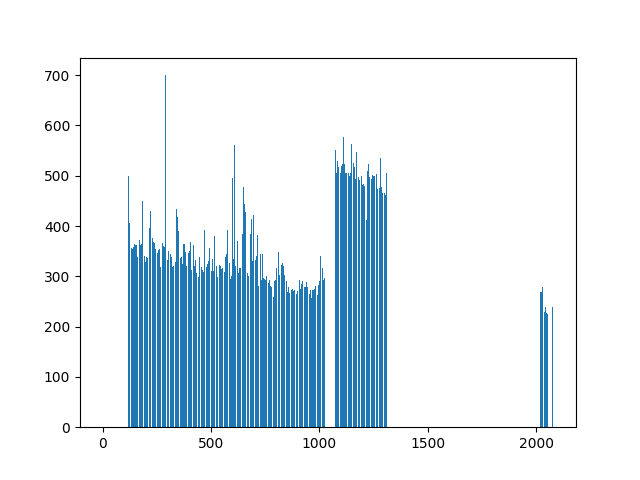
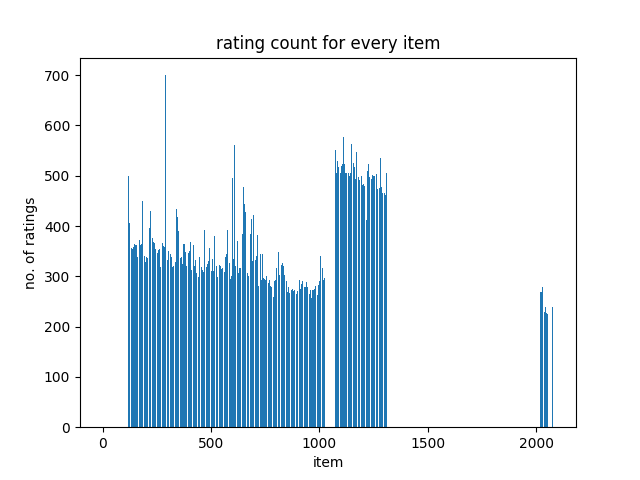
continue report

Changed region(s): [[0.3438, 0.0625, 0.6875, 0.125], [0.0312, 0.4062, 0.0625, 0.5938], [0.4688, 0.9375, 0.5312, 0.9688]]

diff --git a/report/report.tex b/report/report.tex
@@ -5,6 +5,7 @@
 \usepackage{amsmath}
 \usepackage{amssymb}
 \usepackage[]{algorithm2e}
+\usepackage{graphicx}
 
 \DeclareMathOperator{\rank}{rank}
 \newcommand{\norm}[1]{\left\lVert#1\right\rVert}
@@ -19,43 +20,90 @@
 
 \maketitle
 \begin{abstract}
-As part of the course 
+Abstract comes later
 \end{abstract}
 
-\section{Task and Dataset}
-To pass the course "Statistical Learning Theory Lab" we were required to write a recommender system as final project. Roughly speaking we predict the rating $\hat{r}_{u,i}$ that some user $u$ might give to a item $i$ depending on his previous ratings (or of other item ratings). 
-With a more technical point of view we can see this as task to complete a highly sparse matrix. There are many approaches to do this. The two most common variants were described in \cite{KoBeVo09}. One approach determines the rating according to the "neighbours" of the item or user. Others try to compute a decomposition of the ratings matrix $R$. 
+\section{Task and Dataset}\label{intro}
+To pass the course "Statistical Learning Theory Lab" we were required to write a recommender system as final project. There are two ways to interpret this task.
+The first, less technical interpretation is the following: Roughly speaking, we want to predict the rating $\hat{r}_{u,i}$ that some user $u$ might give to a item $i$, depending on the previous ratings of this user or item.
 
-\subsection{Dataset Insights}
-We got a set of 461806 triples of the form $(\text{row},\text{column},\text{rating})$ and we were required to rate another 81495 row/column pairs. 
-The given training data stretched out to matrix of the dimension $5499\times 2080$. Since this matrix has 11437920 entries we have around $95.9\%$ sparsity.
+With a more technical point of view, our task is to complete a highly sparse matrix. The original ratings are composed in a matrix $R\in\mathbb{R}^{m\times n}$ where the rows represent the $m$ users and the $n$ columns the items.
+Each entry $r_{u,i}$ then stands for the rating of user $u$ for item $i$. We now want compute a dense matrix $\hat{R}$ were we assign a rating for each user-item pair.
 
-The ratings are in the set $\{0,1,2,3,4\}$. To distinguish empty entries from the rating 0 it is useful to apply a feature map $\phi:\mathbb{N}\rightarrow\mathbb{N},m\rightarrow m+1$ before any other computation. As final step we need then apply its inverse $\phi^{-1}$ to get the correct ratings.  
+There are many approaches to do this. In \cite{KoBeVo09} two of the most common algorithms for this task are described.
+One approach follows the assumption similar users rate items similarly. Such algorithms try to determine the distance between two users or items and then use a $k$-Nearest-Neighbor algorithm to compute the rating depending on their ratings.
 
-\subsection{Measuring the Performance}
-One metric to measure the performance of a predictor is the root mean square error RMSE. Let $r_{u,i}$ the observed rating, $\hat{r}_{u,i}$ the predicted rating and let $n$ be the number of predictions. Then the RMSE is defined in the following way: 
+The second common approach is often called latent factor model. The idea is the following: each item belongs to certain concepts. Each user may like some of these concepts more than others. In the world of films that could be the genre of the movie. A latent factor approach now tries to explain the ratings of items with respect to this categories. Usually they compute a decomposition of the ratings matrix.
+
+\subsection{Dataset Insights}\label{datsetinsight}
+We got a set of 461,806 triples of the form (row, column, rating) and we were required to rate another 81,495 row-column pairs. 
+The given training data stretch out to matrix of the dimension $5499\times 2080$. Since this matrix has 11,437,920 possible entries we have around $95.9\%$ sparsity.
+
+Our ratings are in the set $\{0,1,2,3,4\}$. Since 0 is a possible rating it is useful to apply a feature map $$\phi:\mathbb{N}\rightarrow\mathbb{N},m\rightarrow m+1$$ before any other computation. As a result we can assume that 0 in our ratings matrix stands for an empty field and not for the rating 0. To get our final, correct ratings we should apply the inverse feature map $\phi^{-1}$ as final step.
+
+\subsection{Item and User Bias}\label{bias}
+Let us look a bit deeper in our dataset. As a first step let us compute the distribution of the number of ratings for items. As you can see in \autoref{fig:itemcount}, around one half of the items were rated by users. Most of the rated items received at least 300 ratings. 
+\begin{figure}[h]
+	\includegraphics[width=\columnwidth]{../img/item-count}
+	\caption{rating count per item}
+	\label{fig:itemcount}
+\end{figure}
+
+More interesting is the distribution of ratings per user. When we look on \autoref{fig:usercount}, we can see that there exist some users that rate around one half of the items. On the other hand a majority of users rate only a few items. We can safely say, that there exist a large bias for some users. As a consequence we need to incorporate this bias in our models to improve our prediction.
+Since some of the items are also rated more often, there exist a item bias as well. 
+\begin{figure}
+	\includegraphics[width=\columnwidth]{../img/user-count}
+	\caption{rating count per user}
+	\label{fig:usercount}
+\end{figure}
+
+\section{Measuring the Performance}
+To compare variants of our model and select the best one, it is necessary to have a objective measure. There are many different metrics for this. It depends on our concrete task which one we should consider. In our case only the accuracy of the system is interesting.
+
+One common metric to measure the accuracy of a predictor is the root mean square error (RMSE). Let $r_{u,i}$ be the observed rating, $\hat{r}_{u,i}$ the predicted rating and let $n$ be the number of predictions. Then the RMSE is defined in the following way: 
 \begin{equation*}
 \begin{split}
-RMSE = \sqrt{\frac{\sum (r_{u,i}-\hat{r}_{u,i})^2}{n}}
+\text{RMSE} = \sqrt{\frac{\sum_{\text{predicted ratings}} (r_{u,i}-\hat{r}_{u,i})^2}{n}}
 \end{split}
 \end{equation*}
-The RMSE penalize low errors less than large ones. 
+This is a measure of how good our model fit the given dataset. Keep in mind, that this measure tends to disproportionately penalize large errors. 
 
-\subsection{Baseline Predictors}
-To get a feeling for the dataset it is useful to implement very basic baseline predictors. One example could be to use the mean to predict the rating $\hat{r}_{u,i}$ for user u and item i. Using the user mean to predict new ratings give us an RMSE of $1.221$ and using the item mean give us an error of $1.267$.
+For more metrics refer to \cite{Ag16}.
 
-\section{Matrix Factorization}
-A better way to solve such task uses matrix factorization. The idea is the following: given is a ratings matrix $R\in\mathbb{R}^{m\times n}$. We assume that $\rank(R)\ll\min(m,n)$. Then this matrix can be decomposed in two smaller matrices such that 
-$$R\approx UV^T$$ holds where $U\in\mathbb{R}^{m\times k}$ and $V\in\mathbb{R}^{n\times k}$ given that $\rank(R)=k$. Such method is called latent matrix factorization.
+\section{Baseline Predictors}\label{baseline}
+To get a feeling of the dataset it is useful to implement very basic baseline predictors. For example we could use the mean of the ratings specified by user $u$ to specify a new rating $\hat{r}_{u,i}$ for item $i$. In an analogue way we could use the mean of an item $i$ for new ratings. A third option is the usage of random values. 
 
-As stated in \cite{KoBeVo09} one common way for doing this is the usage of singular value decomposition (SVD) which works fine with dense matrices. In our case the matrix $R$ is highly sparse and SVD wouldn't work. Instead we can formulate the problem as optimization problem with respect to the matrices $U$ and $V$ as described in \cite{Ag16}. We can use the following objective function: 
+\begin{table}[h]
+	\centering
+	\begin{tabular}{r|l}
+		method & RMSE \\ \hline
+		user mean & 0.700 \\
+		item mean & 0.772 \\
+		random & 1.780
+	\end{tabular}
+	\caption{RMSE for baseline models}
+	\label{tab:baseline}
+\end{table}
+
+If we split our given dataset in a training set and in a test set and using the above described methods lead to the results stated in \autoref{tab:baseline}. The value for the random method, was determined after one run. Repeating this experiment might give other values.
+
+We notice that the mean methods already give us quite good results. The better result of the user mean model can be explained with the in \autoref{bias} described bias. Models that are above these values can be easily ignored. 
+
+
+\section{Matrix Factorization}\label{matrixfactorization}
+A better way to solve such a task is the usage of matrix factorization techniques. The idea is the following: given is a ratings matrix $R\in\mathbb{R}^{m\times n}$. We assume that $\rank(R)=k\ll\min(m,n)$. Then this matrix can be decomposed in two smaller matrices such that 
+$$R\approx UV^T$$ holds, where $U\in\mathbb{R}^{m\times k}$ and $V\in\mathbb{R}^{n\times k}$. This is an example for matrix factorization as described in \autoref{intro}.
+
+As stated in \cite{KoBeVo09}, one common way to do this, is the usage of singular value decomposition (SVD), which works fine with dense matrices. In our case the matrix $R$ is highly sparse and SVD wouldn't work. Instead the problem can be reformulated as optimization problem, as described in \cite{Ag16}. We can use the following objective function: 
 $$\min_{U,V} \frac{1}{2}\norm{R-UV^T}^2$$ 
-$\norm{\cdot}^2$ refers here to the squared Frobenius norm which means $$\norm{A}^2=\sum_{i,j}A_{i,j}^2$$
+$\norm{\cdot}^2$ refers here to the squared Frobenius norm which is defined as $$\norm{A}^2:=\sum_{i,j}A_{i,j}^2$$
 
-In the easiest variant of such optimization problem we assume that there are no further constraints. We refer to this variant as unconstrained matrix factorization UMF. The easiest approach to solve this uses gradient descent.
+In the easiest variant of such a optimization problem, we assume that there are no further constraints. We refer to this variant as unconstrained matrix factorization (UMF). 
+It is common to compute the solution of this problem with gradient descent method.
 
 \subsection{Gradient Descent}\label{gd}
-The gradient descent method is an iterative approach to find an $x$ that minimizes a differentiable function $f$ starting with an given $x_0$. For this we calculated the gradient of the function. This points in the direction of the highest ascent of this function. To minimize the function we go small steps in the opposite direction. This can done with an iterative approach as described in \ref{algo:gd}. 
+The gradient descent method is an iterative approach to find an $x$ that minimizes a differentiable function $f$ starting with a given $x^{(0)}$. As a first step it is necessary to compute the gradient $\nabla f$ of the function, which points in the direction of the highest ascent. 
+The idea to minimize the function is now going small steps in the opposite direction. An algorithm for this is described in \autoref{algo:gd}. 
 
 \begin{algorithm}
 	\caption{gradient descent}
@@ -68,14 +116,15 @@ The gradient descent method is an iterative approach to find an $x$ that minimiz
 		update $x^{(n+1)} \leftarrow x^{(n)} - \eta \nabla f$ \;
 	}
 \end{algorithm}
-For an more detailed description refer to \cite{ShSh14}.
-Be aware that this algorithm shows divergence for to large $\eta$. 
+Note that this is only the easiest example for gradient descent methods. Keep in mind, that for a to large $\eta$ the algorithm shows divergence.
+For an more detailed description refer to \cite{ShSh14}. 
 
 \subsection{Applying Gradient Descent on UMF} 
-We want to apply the gradient descent approach on the unconstrained matrix factorization problem. For this we need to calculate the gradient of the objective function. We've observed only a few entries of the ratings matrix $R$. Our objective function is therefor undefined. To fix this we set the unobserved entries in $UV^T$ and $R$ to zero. 
-Now let us define $E:=R-UV^T$ as the error matrix. Again all unobserved entries in this matrix are zero and don't affect the loss function. Our objective function becomes now \[\min\frac{1}{2}\norm{E}^2\]
-We can now calculate the gradient.
-First with respect to the matrix U
+We want to apply the gradient descent approach on the unconstrained matrix factorization problem. 
+As a first step it is necessary, to calculate the gradient of our objective function. There are only a few observed entries in the ratings matrix $R$. The objective function is therefore undefined. To fix this it is necessary to set the unobserved entries in $UV^T$ and $R$ to zero. This works only if we applied the feature map $\phi$ given in \autoref{datsetinsight}. 
+Now let us define $E:=R-UV^T$ as the error matrix. Again all unobserved entries in this matrix are zero, and don't affect the loss function. Our objective function becomes now \[\min\frac{1}{2}\norm{E}^2\]
+With this in mind, we can calculate the gradient of our objective function.
+Let us start with respect to an entry in matrix U.
 \begin{equation*}
 \begin{split}
 \nabla_{U_{i,\beta}} \frac{1}{2}\norm{E}^2 &= \nabla_{U_{i,\beta}} \frac{1}{2}\sum_{i,j}E_{i,j}^2 \\ &=\nabla_{U_{i,\beta}} \frac{1}{2}\sum_{i,j}(R_{i,j}-(UV^T)_{i,j})^2 \\
@@ -84,7 +133,7 @@ First with respect to the matrix U
 &=\sum_{i,j}(E_{i,j})(-V_{j,\beta})=-EV_{i,\beta} 
 \end{split}
 \end{equation*}
-Symmetrical we can derive the gradient of the objective function with respect to V and get 
+It is possible to derive the gradient for an entry in matrix V symmetrical. We get 
 \begin{equation*}
 \begin{split}
 \nabla_{V_{j,\alpha}} \frac{1}{2}\norm{E}^2 &= \nabla_{V_{j,\alpha}} \frac{1}{2}\sum_{i,j}(R_{i,j}-(UV^T)_{i,j})^2\\
@@ -92,30 +141,42 @@ Symmetrical we can derive the gradient of the objective function with respect to
 \end{split}
 \end{equation*}
 
-As you can see those gradients can be easily vectorized and so we get $\nabla_U \frac{1}{2}\norm{E}^2=-EV$ and  $\nabla_V \frac{1}{2}\norm{E}^2=-E^TU$. Since the learning rate $\eta$ needs to be positive we get the following update rules: \[U^{(i+1)} \leftarrow U^{(i)} + \eta E^{(i)}V^{(i)}\] and \[V^{(i+1)} \leftarrow V^{(i)} + \eta E^{(i)T}U^{(i)}\]. With this update rules we can now use \ref{algo:gd} to minimize our objective function. Now we have only to decide us for a convergence criteria. One possibility is that the value of our objective function should be below a certain value. But since the gradient descent finds only a local, previous unknown, minimum it is hard to decide when to stop. It is therefore better to use other criteria. In my implementation I stop when the difference of the objective function value between two iterations is below a certain limit. Formally the algorithm stops when $|\frac{1}{2}\norm{E^{(n)}}^2-\frac{1}{2}\norm{E^{(n+1)}}^2|=\frac{1}{2}|\sum_{i,j}(E_{i,j}^{(n)})^2-(E_{i,j}^{(n+1)})^2|\leq\epsilon$ holds.
+Those gradients can be easily vectorized to $$\nabla_U \frac{1}{2}\norm{E}^2=-EV$$ and  $$\nabla_V \frac{1}{2}\norm{E}^2=-E^TU$$. Since the learning rate $\eta$ needs to be positive we get the following update rules: \[U^{(i+1)} \leftarrow U^{(i)} + \eta E^{(i)}V^{(i)}\] and \[V^{(i+1)} \leftarrow V^{(i)} + \eta E^{(i)T}U^{(i)}\]
+For minimizing the objective function with \autoref{algo:gd}, it is necessary to have a starting point. One option to obtain $U^{(0)}$ and $V^{(0)}$ is the initialization with random values. 
+
+As a last thing, it is necessary to have a convergence criteria or our algorithm runs in a infinite loop. One possibility is that the value of our objective function should be below a certain value. But since the gradient descent finds a local, previously unknown, minimum it is hard to decide when to stop. It is therefore better to use other criteria. In my implementation I stop when the difference of the objective function value between two iterations is below a certain limit. Formally the algorithm stops when
+\begin{equation*}
+\begin{split}
+&|\frac{1}{2}\norm{E^{(n)}}^2-\frac{1}{2}\norm{E^{(n+1)}}^2|=\\
+&\frac{1}{2}|\sum_{i,j}(E_{i,j}^{(n)})^2-(E_{i,j}^{(n+1)})^2|\leq\epsilon
+\end{split}
+\end{equation*} $$$$ holds.
+
+\textit{Note:} It is also possible to reshape the matrices in vectors of the dimension $(mk)\times1$ and $(nk)\times1$. 
 
 \subsection{Regularization to Prevent Overfitting}
-In order to prevent overfitting it is common to add a regularization term to the objective function. As stated in \cite{Gi19} this may increase the bias but it also may decrease the variance of the estimator. This is known as Bias-Variance trade-of an can lead to a better predictor. 
+In order to prevent overfitting it is common to add a regularization term to the objective function. As stated in \cite{Gi19} this may increase the bias but it also may decrease the variance of the estimator. This is known as bias-variance trade-off and can lead to a better predictor. 
 
 For our matrix factorization problem we can  add the regularization terms $\frac{\lambda}{2}\norm{U}^2$ and $\frac{\lambda}{2}\norm{V}^2$ for $\lambda \geq 0$ as recommended in \cite{Ag16}.
-Plugging this into our objective function we get $\min_{U,V} \frac{1}{2}\norm{E}^2 + \frac{\lambda}{2}\norm{U}^2 + \frac{\lambda}{2}\norm{V}^2$. Calculating the gradient of this function gives us the following update rules: \[U^{(i+1)} \leftarrow U^{(i)} + \eta E^{(i)}V^{(i)} - \eta\lambda U^{(i)}\] and \[V^{(i+1)} \leftarrow V^{(i)} + \eta E^{(i)T}U^{(i)} - \eta\lambda V^{(i)}\]
-
+Plugging this into the objective function give following problem: $$\min_{U,V} \frac{1}{2}\norm{E}^2 + \frac{\lambda}{2}\norm{U}^2 + \frac{\lambda}{2}\norm{V}^2$$. Calculating the gradient of this objective function gives two, a bit modified update rules: \[U^{(i+1)} \leftarrow U^{(i)} + \eta E^{(i)}V^{(i)} - \eta\lambda U^{(i)}\] and \[V^{(i+1)} \leftarrow V^{(i)} + \eta E^{(i)T}U^{(i)} - \eta\lambda V^{(i)}\]
+Setting $\lambda = 0$ gives the original problem with no regularization. It is therefore possible to use these update rules even in the unregularized case.
 \subsection{Incorporating Bias}
-Users and items are different. Some users may rated many items and others only a few. And some items are bought more often then others and therefor they may have more ratings. 
-As first step we can mean center our original matrix with the global mean $\mu$, calculate our ratings and add the mean again. But this can be done better.
-
-As described in \cite{Ag16} we can associate with each user $i$ a variable $o_i$ which indicates the bias user $i$ to rate items. Users who rate items high or more often might have a high value, users who rate very rarely items may have small (negative) values. Vice versa we can introduce a similar variable $p_j$ for items.
+Users and items are different. Some users may rated many items and others only a few. And some items are bought more often then others and therefor they may have more ratings. We have seen this problem in \autoref{datsetinsight}.
  
-Our predicted rating for items become now $\hat{R}_{u,i} = \mu + o_u + p_i + UV^T_{u,i}$. Our error matrix becomes now $E_{u,i} = R_{u,i}^{'} - \hat{R}_{u,i} = R_{u,i}^{'} - o_u - p_i - UV^T_{u,i}$. Note that $R^{'}$ denotes here the mean centered data matrix and so $\mu$ plays no role in the following calculations.
+The first step to encounter this problem it is useful to mean center our original matrix with the global mean $\mu$. If this is done it is necessary to add the mean after the calculation of our ratings.
 
-Now let us look on the following equation:
+As described in \cite{Ag16} it is possible to improve this even more. Let us associate with each user $i$ a variable $o_i$ which indicates the bias of user $i$ to rate items. Users who rate items high or more often might have a high value, users who rate very rarely items may have small (negative) values. Vice versa we can introduce a similar variable $p_j$ for items.
+ 
+Our predicted rating for items become now $$\hat{R}_{u,i} = \mu + o_u + p_i + UV^T_{u,i}$$. Our error matrix becomes now $$E_{u,i} = R_{u,i}^{'} - \hat{R}_{u,i} = R_{u,i}^{'} - o_u - p_i - UV^T_{u,i}$$. Note that $R^{'}$ denotes the mean centered data matrix and as a result $\mu$ plays no role in the following calculations.
+
+Now let us look at the following equation:
 \begin{equation*}
 \begin{split}
 o_u + p_i + UV^T_{u,i} &= \sum_{l}^{k}U_{u,l}V^T_{l,i} + o_u + p_i\\ &= \sum_{l}^{k}U_{u,l}V^T_{l,i} + o_u\cdot 1 + 1\cdot p_i
 \end{split}
 \end{equation*}
-It is easy to see that the last two terms can added to the sum if we increase $k$ by $2$ and set $U_{u,k+1}=o_u$ and $V^T_{k+1,i}=1$ as well $V^T_{k+2,i}=p_i$ and $U_{u,k+2}=1$. Our new problem is now pretty similar to our original problem. We have only two small new constraints. The column $k+2$ in $U$ and the column $k+1$ in $V$ must be $1$.
-This constraints can be satisfied in the gradient descent approach if we set this columns after each update step to $1$ as described in \cite{Ag16}.
+It is easy to see that the last two terms can added to the sum if we increase $k$ by $2$ and set $U_{u,k+1}=o_u$ and $V^T_{k+1,i}=1$ as well $V^T_{k+2,i}=p_i$ and $U_{u,k+2}=1$. Our new problem is now nearly similar to our original problem. The only difference is now, that there exist two new small constraints. The column $k+2$ in $U$ and the column $k+1$ in $V$ must be $1$.
+These constraints can be satisfied in the gradient descent approach if we set these columns after each update step to $1$ as described in \cite{Ag16}.
 
 \subsection{Improving the Gradient Descent}
 We have seen that the gradient descent is one method to minimize our optimization problem. But as described in \ref{gd} for to large $\eta$ the algorithm shows divergence.
@@ -144,8 +205,26 @@ With this approach we can use our algorithm. The computation of $\eta$ needs now
 Note the following. Since $\eta$ is not fixed it is not sure that $|\frac{1}{2}\norm{E^{(n)}}^2-\frac{1}{2}\norm{E^{(n+1)}}^2|$ gets smaller for every iteration. Sometimes the improved algorithm does big steps. But our convergence criteria works since the steps will be get asymptotically smaller. Also the objective function value gets smaller from iteration to iteration. 
 
 \section{Model Evaluation And Parameter Tuning}
-%divergence rank >20 -> smaller learning rate or linear search
+The in \autoref{matrixfactorization} described model has two main parameters. The most important is the rank of the decomposition matrices. The second interesting parameter is the regularization parameter $\lambda$. It would also be interesting to see the impact of the bias variables.
 
+For the following experiment the given data set was splitted in two halfs. 90\% of the dataset were used for training. The remaining 10\% were used to calculate the RMSE. 
+
+Since the rank of the matrix has more impact on the result it is useful to start the search there. I trained 5 models with rank 1 to 20 in steps of five. I used constant $\eta=0.0005$, no regularization and the convergence criteria $\epsilon = 0.001$. The maximum cycle count was set to 5000. To see a impact of the bias variables I repeated the experiment with the same parameters but incorporated bias.   
+\begin{figure}[h]
+	\includegraphics[width=\columnwidth]{../img/rank-rmse-validate}
+	\caption{RMSE vs. matrix rank}
+	\label{fig:ranksearch}
+\end{figure}
+The result of this experiments are shown in \autoref{fig:ranksearch}. Compared with our baseline models of \autoref{baseline} even the model with rank 1 works better. The performance of our model increase til rank 15. It is noticeable that the performance increase of our model gets slower. Between rank 15 and rank 20 the unbiased estimator performance get worse again. This might be a sign for overfitting. 
+It is also worth to mention that the incorporation of bias has a huge impact on low rank models. With increasing rank the influence of the bias variables vanish increasingly. At rank 15 they have nearly no impact.
+But on the other side it seems that biased estimators tend to overfit less.
+\begin{figure}[h]
+	\includegraphics[width=\columnwidth]{../img/lambda-rmse-validate}
+	\caption{RMSE vs. regularization parameter $\lambda$}
+	\label{fig:lambdasearch}
+\end{figure}
+
+The regularization parameter has less impact on our model. 
 \section{Conclusion}
 \bibliography{references}{}
 \bibliographystyle{alpha}

diff --git a/datavisualisation.py b/datavisualisation.py
@@ -65,19 +65,19 @@ for rank in ranks:
     rmses.append((rank, rmse_train, rmse_validate, absolute_error, rmse_train_bias, rmse_validate_bias, absolute_error_bias))
 plt.figure()
 rmses = np.array(rmses)
-plt.plot(rmses[:,0],rmses[:,2], color="blue", marker="o")
-plt.plot(rmses[:,0],rmses[:,5], color="green", marker="o")
-plt.title("RMSE on validation set vs. matrix rank")
+plt.plot(rmses[:,0],rmses[:,2], color="blue", marker="o", label="no bias")
+plt.plot(rmses[:,0],rmses[:,5], color="green", marker="o", label="bias")
 plt.ylabel("RMSE")
 plt.xlabel("rank")
-plt.savefig(os.path.join("img","rank_rmse_validate.png"))
+plt.legend(loc="upper right")
+plt.savefig(os.path.join("img","rank-rmse-validate.png"))
 plt.figure()
 plt.plot(rmses[:,0],rmses[:,1], color="blue", marker="o")
 plt.plot(rmses[:,0],rmses[:,4], color="green", marker="o")
 plt.title("RMSE on training set vs. matrix rank")
 plt.ylabel("RMSE")
 plt.xlabel("rank")
-plt.savefig(os.path.join("img","rank_rmse_train.png"))
+plt.savefig(os.path.join("img","rank-rmse-train.png"))
 plt.figure()
 plt.plot(rmses[:,0],rmses[:,3], color="blue", marker="o")
 plt.plot(rmses[:,0],rmses[:,6], color="green", marker="o")
@@ -103,7 +103,6 @@ plt.figure()
 rmses_lambda = np.array(rmses_lambda)
 plt.plot(rmses_lambda[:,0],rmses_lambda[:,2], color="blue", marker="o")
 #plt.plot(rmses_lambda[:,0],rmses_lambda[:,1], color="green", marker="o")
-plt.title("RMSE on validation set vs. lambda")
 plt.ylabel("RMSE")
 plt.xlabel("lambda")
-plt.savefig(os.path.join("img","lambda_rmse_validate.png"))
+plt.savefig(os.path.join("img","lambda-rmse-validate.png"))

diff --git a/models/matrix_factorization.py b/models/matrix_factorization.py
@@ -46,7 +46,7 @@ class UMF:
         if not isinstance(epsilon, numbers.Number):
             raise Exception("Epsilon must be an numeric value!")
         self.epsilon = epsilon
-        if type(max_run) != int or rank <= 0:
+        if type(max_run) != int or max_run <= 0:
             raise Exception("Maximum run count must be an positiv integer value!")
         self.max_run = max_run
         if not isinstance(regularization, numbers.Number) or regularization < 0:
